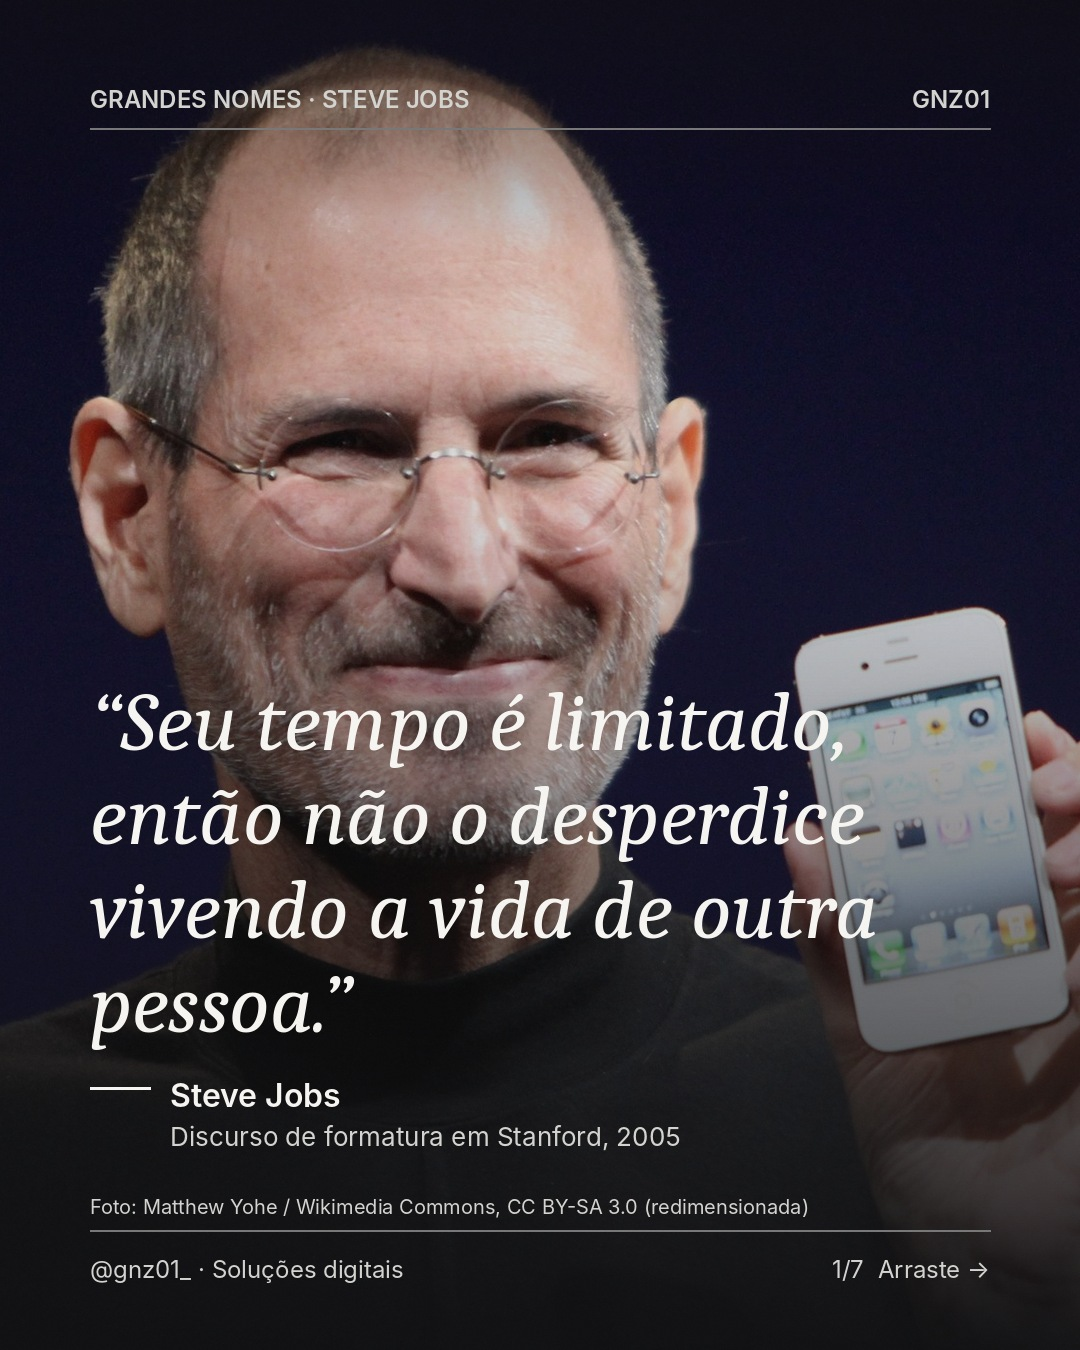
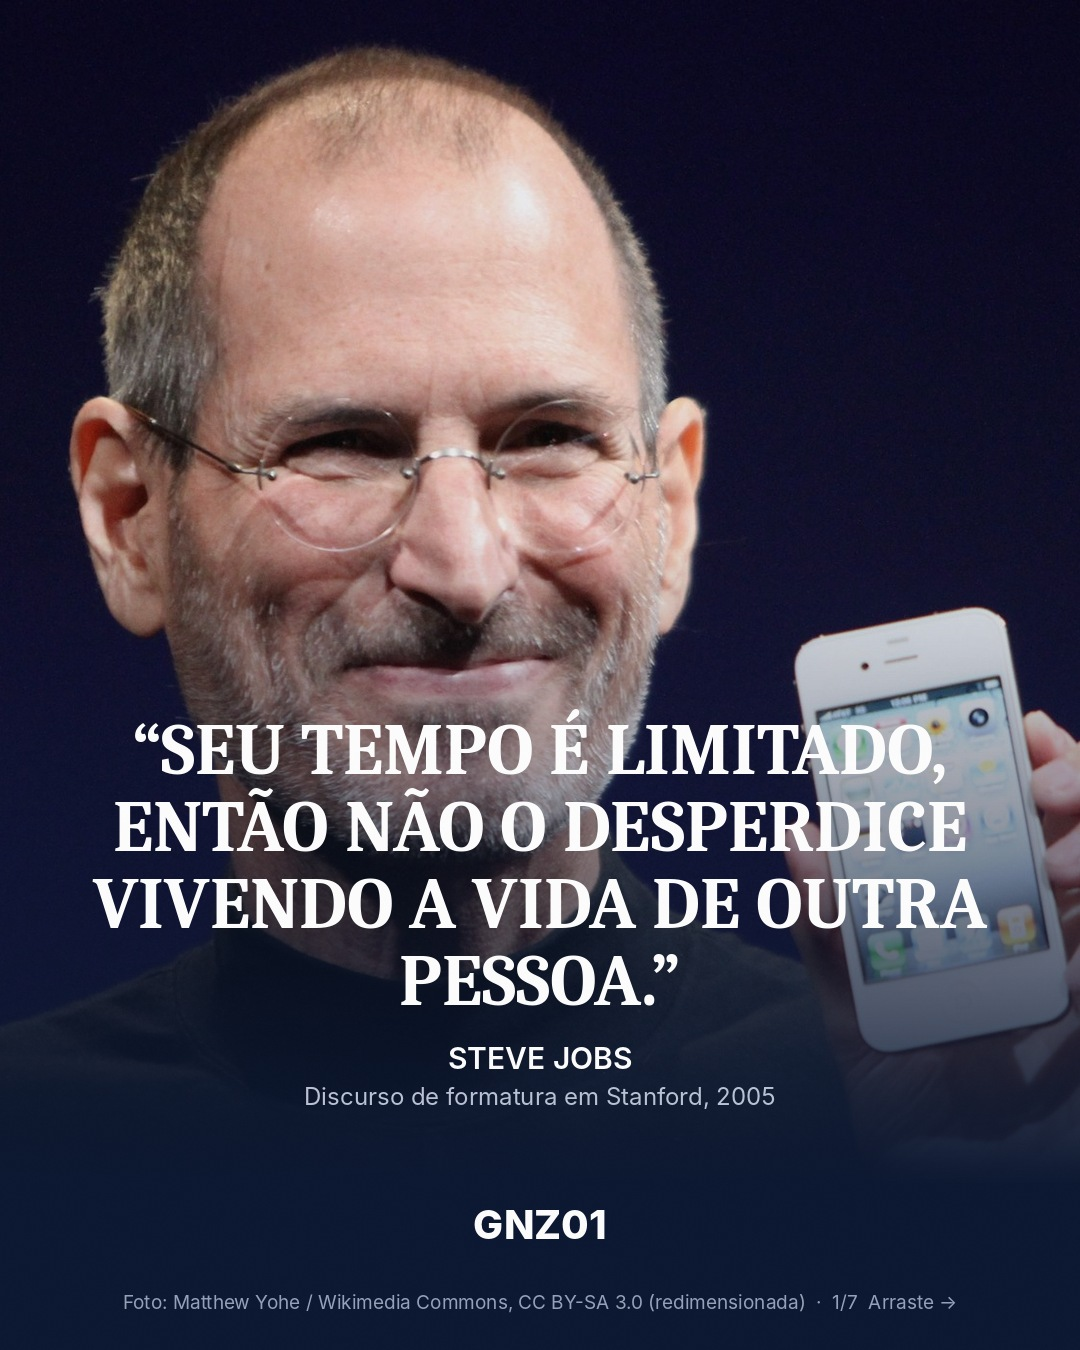
Citações: estilo capa central (foto real + degradê marinho + serifada caixa alta) no feed e nos stories
Claude-Session: https://claude.ai/code/session_01RYafPmAtYGRpHg7RarMXCA

Changed region(s): [[0.0, 0.4978, 1.0, 1.0], [0.0917, 0.0311, 0.5806, 0.1867], [0.8556, 0.0622, 0.9167, 0.0933]]

diff --git a/src/editorial.py b/src/editorial.py
@@ -144,7 +144,13 @@ def carrossel(p, pasta):
     """Carrossel editorial: capa (citação) + slides de texto + CTA. slides: [{rotulo, titulo, texto}]."""
     pasta = Path(pasta)
     total = len(p["slides"]) + 1
-    caminhos = [peca({**p["capa"], "citacao": True}, pasta / "01.jpg", pagina=f"1/{total}  Arraste →")]
+    capa = p["capa"]
+    if capa.get("foto"):
+        caminhos = [capa_central(capa["foto"], capa["titulo"], pasta / "01.jpg", autor=capa.get("autor"),
+                                 fonte_citacao=capa.get("fonte_citacao"), credito=capa.get("credito"),
+                                 pagina=f"1/{total}  Arraste →")]
+    else:
+        caminhos = [peca({**capa, "citacao": True}, pasta / "01.jpg", pagina=f"1/{total}  Arraste →")]
     for i, s in enumerate(p["slides"], 2):
         caminhos.append(peca({"rotulo": s.get("rotulo", ""), "titulo": s["titulo"], "subtitulo": s.get("texto"),
                               "apoio": s.get("apoio", []), "escuro": s.get("escuro", False),
@@ -168,6 +174,12 @@ def _gradiente(img, ini, cor, forca=250, topo=0):
 
 
 def story_citacao(p, destino):
+    return capa_central(p["foto"], p["citacao"], destino, tam=(SW, SH), autor=p["autor"],
+                        fonte_citacao=p["fonte_citacao"], credito=p["credito"],
+                        reflexao=p.get("reflexao") or p.get("interacao"))
+
+
+def story_citacao_antigo(p, destino):
     """Story de citação. Campos: foto, credito, citacao (PT), autor, fonte_citacao, reflexao (GNZ01, opcional),
     interacao (opcional), variante "a" (foto em tela cheia, texto embaixo) ou "b" (foto no alto, painel marinho)."""
     var = p.get("variante", "a")
@@ -230,5 +242,77 @@ def story_citacao(p, destino):
     _escrever(d, m, y - alt, linhas, fq, t, cor_t, 1.15)
     img = Image.blend(img, Image.effect_noise((SW, SH), 18).convert("RGB"), 0.03)
     destino = Path(destino); destino.parent.mkdir(parents=True, exist_ok=True)
+    img.save(destino, "JPEG", quality=93)
+    return destino
+
+
+# ---------------------------------------------------------------- estilo "capa central" (foto cheia + degradê marinho + serifada centralizada)
+MARINHO_PROF = (10, 22, 48)
+
+
+def capa_central(foto, titulo, destino, tam=(1080, 1350), autor=None, fonte_citacao=None, credito=None,
+                 pagina=None, citacao=True, reflexao=None):
+    """Foto real em tela cheia, degradê azul-marinho embaixo, frase em serifada caixa alta centralizada,
+    assinatura GNZ01 centralizada. Serve para capa de carrossel (1080x1350) e story (1080x1920)."""
+    w, h = tam
+    if h > 1350:  # story: foto ocupa ~70% de cima, o resto é marinho
+        hf = int(h * 0.70)
+        img = Image.new("RGB", (w, h), MARINHO_PROF)
+        img.paste(ImageOps.fit(Image.open(foto).convert("RGB"), (w, hf), Image.LANCZOS, centering=(0.5, 0.2)), (0, 0))
+        ini, fim = 0.40, 0.70
+    else:
+        img = ImageOps.fit(Image.open(foto).convert("RGB"), (w, h), Image.LANCZOS, centering=(0.5, 0.2))
+        ini, fim = 0.38, 1.0
+    g = Image.new("L", (1, h))
+    for y in range(h):
+        t = max(0.0, (y - h * ini) / (h * (fim - ini) / 1.25 if h > 1350 else h * 0.62))
+        g.putpixel((0, y), int(255 * min(1, t * 1.25) ** 1.2))
+    img = Image.composite(Image.new("RGB", (w, h), MARINHO_PROF), img, g.resize((w, h)))
+    d = ImageDraw.Draw(img)
+    m = 70
+    larg = w - 2 * m
+    texto = (f"“{titulo}”" if citacao else titulo).upper()
+    area = 430 if h <= 1350 else 520
+    f, linhas, t = _bloco_serif(d, texto, "bold", 72 if h <= 1350 else 78, 40, larg, area, 1.08)
+    alt = int(len(linhas) * t * 1.08)
+    base = h - (230 if h <= 1350 else 300)
+    extra = (100 if autor else 0) + (len(quebrar(d, reflexao, fonte("regular", 30), larg)) * 42 + 40 if reflexao else 0)
+    y = base - extra - alt
+    for l in linhas:
+        d.text(((w - d.textlength(l, font=f)) / 2, y), l, font=f, fill=(255, 255, 255))
+        y += int(t * 1.08)
+    if autor:
+        y += 22
+        fa = fonte("semi", 30)
+        a = autor.upper()
+        d.text(((w - d.textlength(a, font=fa)) / 2, y), a, font=fa, fill=(255, 255, 255))
+        if fonte_citacao:
+            fs = fonte("regular", 24)
+            d.text(((w - d.textlength(fonte_citacao, font=fs)) / 2, y + 42), fonte_citacao, font=fs, fill=(186, 196, 214))
+        y += 90
+    if reflexao:
+        y += 16
+        d.line([(w / 2 - 40, y), (w / 2 + 40, y)], fill=(186, 196, 214), width=2)
+        y += 22
+        fr = fonte("regular", 30)
+        for l in quebrar(d, reflexao, fr, larg):
+            d.text(((w - d.textlength(l, font=fr)) / 2, y), l, font=fr, fill=(226, 230, 238))
+            y += 42
+    # assinatura GNZ01 centralizada
+    fm = fonte("bold", 40)
+    yl = h - (150 if h <= 1350 else 210)
+    d.text(((w - d.textlength("GNZ01", font=fm)) / 2, yl), "GNZ01", font=fm, fill=(255, 255, 255))
+    rod = []
+    if credito:
+        rod.append(credito)
+    if pagina:
+        rod.append(pagina)
+    if rod:
+        fc = fonte("regular", 19)
+        tx = "  ·  ".join(rod)
+        d.text(((w - d.textlength(tx, font=fc)) / 2, h - 60), tx, font=fc, fill=(150, 162, 186))
+    img = Image.blend(img, Image.effect_noise((w, h), 16).convert("RGB"), 0.025)
+    destino = Path(destino)
+    destino.parent.mkdir(parents=True, exist_ok=True)
     img.save(destino, "JPEG", quality=93)
     return destino

diff --git a/conteudo/diretrizes-gnz01.md b/conteudo/diretrizes-gnz01.md
@@ -87,7 +87,7 @@ Pensar como diretor de marketing de agência. Nada genérico. Não copiar concor
 - 2 stories por dia, às 07:00 e às 13:00, com personalidades diferentes e sem repetir nome nem frase em 30 dias (inclui posts de feed).
 - Citação só entra se conferida em fonte confiável (livro, discurso, carta, entrevista em veículo sério ou site oficial). Registrar original, tradução, fonte e link em conteudo/gnz01-citacoes.json. Sem confirmação: descartar a frase.
 - Foto real licenciada obrigatória (midia/fotos/<slug>.jpg + crédito em midia/fotos/creditos.json). Sem foto: não publica. Nunca gerar rosto.
-- Arte: src/editorial.py story_citacao, 1080x1920, variantes "a" (foto em tela cheia) e "b" (foto no alto + painel marinho), alternadas. Reflexão GNZ01 opcional, separada e sem atribuir à personalidade. Interação em texto quando fizer sentido (a API não adiciona figurinhas nativas).
+- Arte: src/editorial.py story_citacao, 1080x1920, estilo "capa central" (foto real no alto, degradê azul-marinho, frase em serifada caixa alta centralizada, GNZ01 centralizado) — referência enviada pelo João em 05/11; o mesmo estilo vale para capas de carrossel de personalidade no feed. Reflexão GNZ01 opcional, separada e sem atribuir à personalidade. Interação em texto quando fizer sentido (a API não adiciona figurinhas nativas).
 - Gerar com python tools/citacoes.py (idempotente). Entregáveis em GNZ01-MARKETING/STORIES/<data>/story-01.jpg|md.
 
 ## 15. GNZ01 Product Showcase (peças de produto) — desde 05/11
